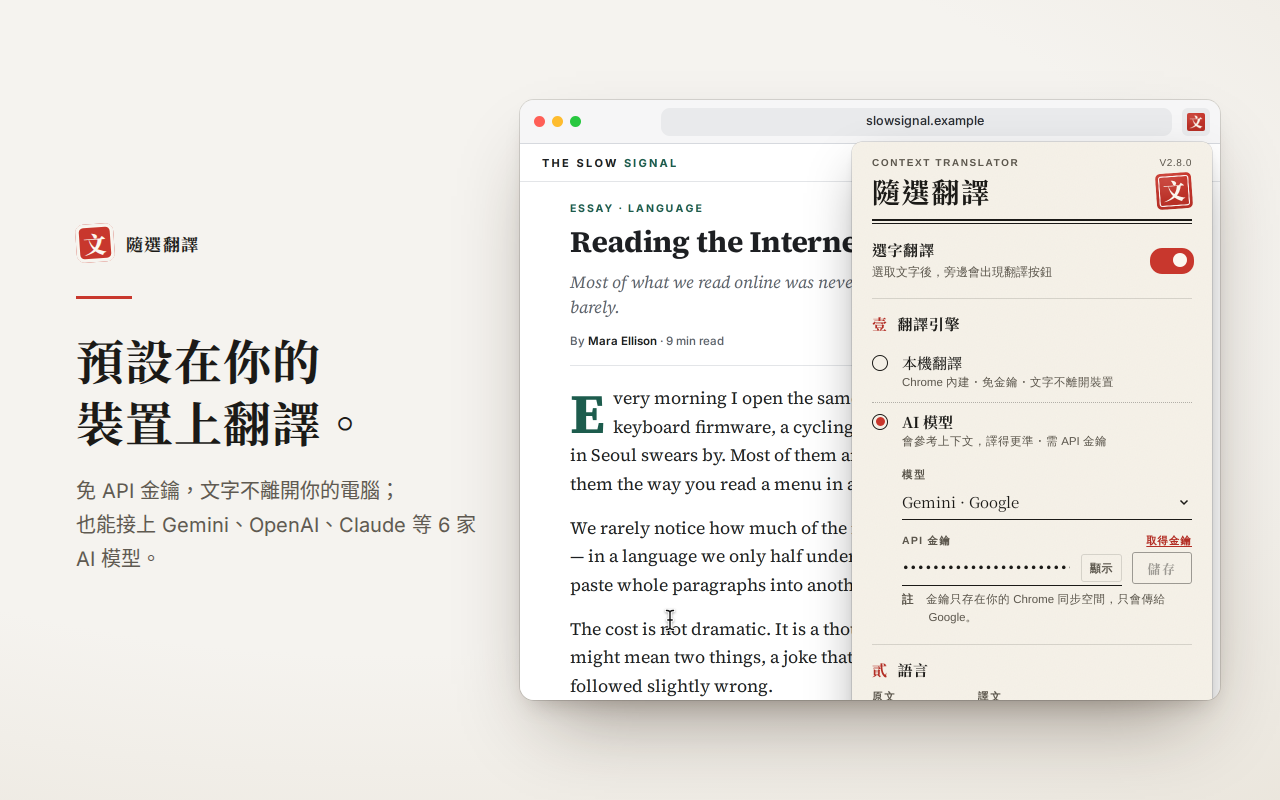
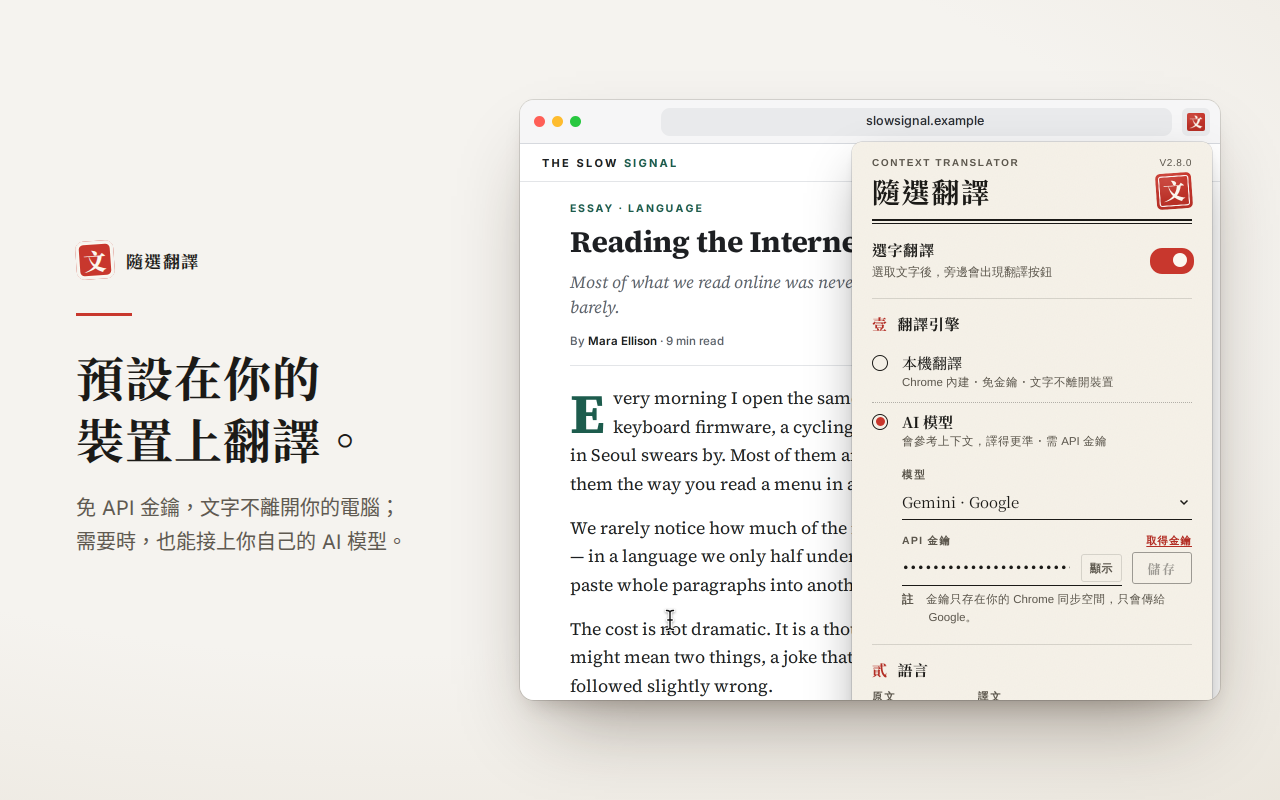
Store listing: drop AI provider brand list after keyword-spam rejection
The first review was rejected as keyword stuffing (Yellow Argon) for
listing six provider names in the description. Describe the BYOK option
generically, shorten the target-language list, and remove brand names
from the screenshot 4 caption.

Changed region(s): [[0.0625, 0.2812, 0.375, 0.7188]]

diff --git a/store/listing.md b/store/listing.md
@@ -12,6 +12,8 @@
 
 ## 二、商店資訊（Store listing）
 
+> 說明文字裡不要列出 AI 服務商的品牌名稱。第一次送審時因為列了六家服務商的名稱，被判定為「關鍵字垃圾內容」（Yellow Argon）而退件。
+
 | 欄位 | 內容 |
 |---|---|
 | 名稱 | 由 manifest 帶入：隨選翻譯 — Context Translator |
@@ -43,11 +45,11 @@
 預設使用 Chrome 內建翻譯（桌面版 Chrome 138 以上），不需要 API 金鑰，文字不會離開你的電腦。
 
 【也能接上你的 AI 模型】
-可以改用 Gemini、OpenAI、Claude、DeepSeek、Kimi 或 MiniMax，使用你自己的 API 金鑰。金鑰只存在你的瀏覽器，請求直接送到你選的服務商。
+需要更貼近語境的譯文時，可以改用你自己的 AI 服務商 API 金鑰（支援 6 家主流服務商，在設定裡選擇）。金鑰只存在你的瀏覽器，請求直接送到你選的服務商。
 
 【其他特色】
 ・自動偵測原文語言，不用先切換設定
-・譯文語言：繁體中文、簡體中文、英文、韓文、法文、德文、西班牙文
+・譯文語言有 7 種可選，包括繁體中文、簡體中文和英文
 ・紙本字典風介面，支援深色模式、鍵盤操作與減少動態效果
 ・免費、開放原始碼
 
@@ -75,11 +77,11 @@ ON-DEVICE BY DEFAULT
 Uses Chrome's built-in translation (desktop Chrome 138 or later). No API key needed, and your text never leaves your computer.
 
 BRING YOUR OWN AI MODEL
-Optionally use Gemini, OpenAI, Claude, DeepSeek, Kimi or MiniMax with your own API key. The key stays in your browser and requests go straight to the provider you choose.
+For more context-aware translations, optionally use your own API key from one of six major AI providers, chosen in the settings. The key stays in your browser and requests go straight to the provider you choose.
 
 ALSO
 • Detects the source language automatically
-• Translates into Traditional Chinese, Simplified Chinese, English, Korean, French, German or Spanish
+• Seven target languages, including Traditional Chinese, Simplified Chinese and English
 • Paper-dictionary design with dark mode, keyboard support and reduced motion
 • Free and open source
 
